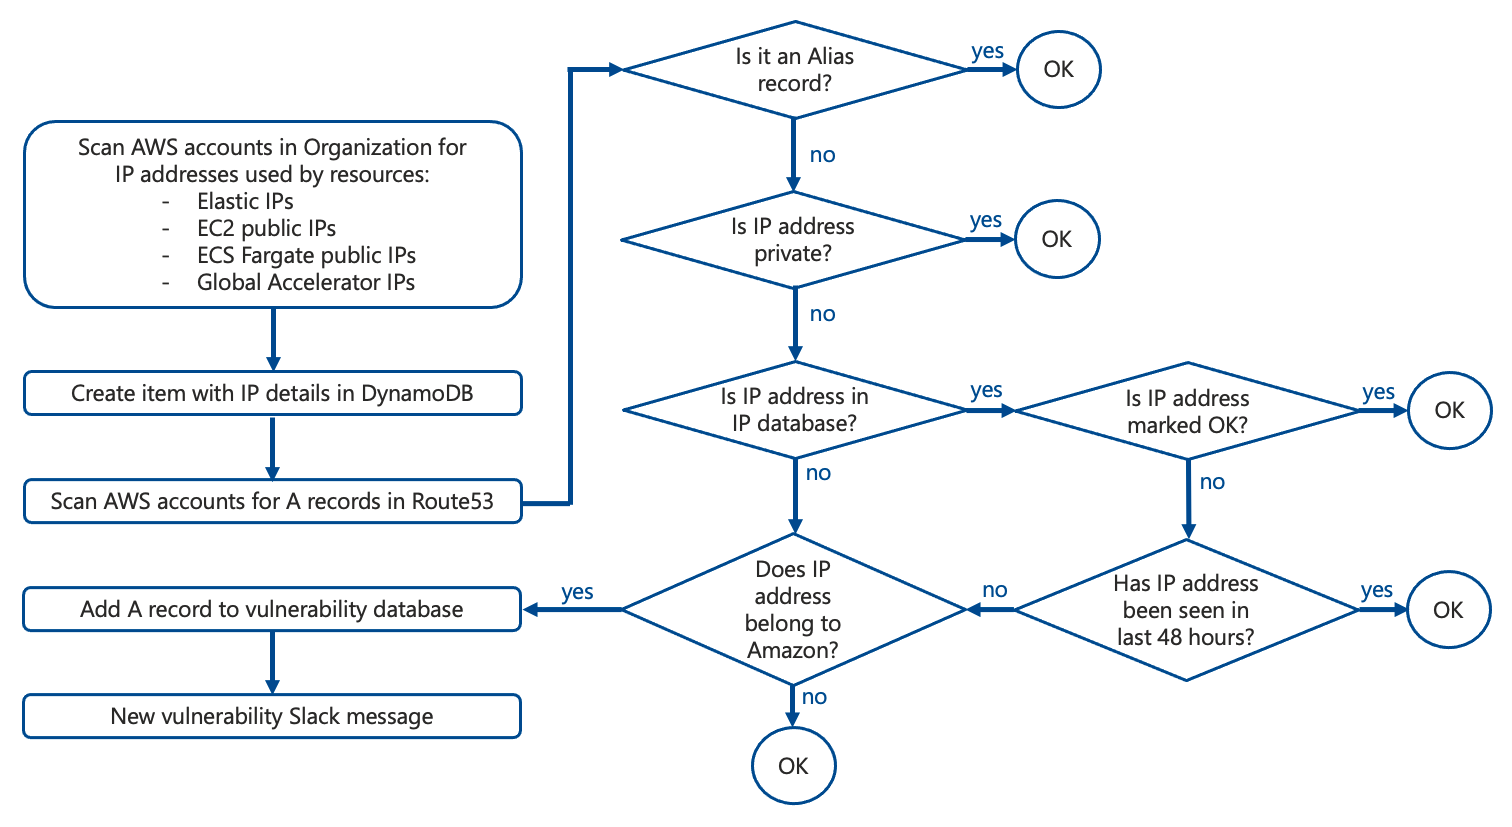
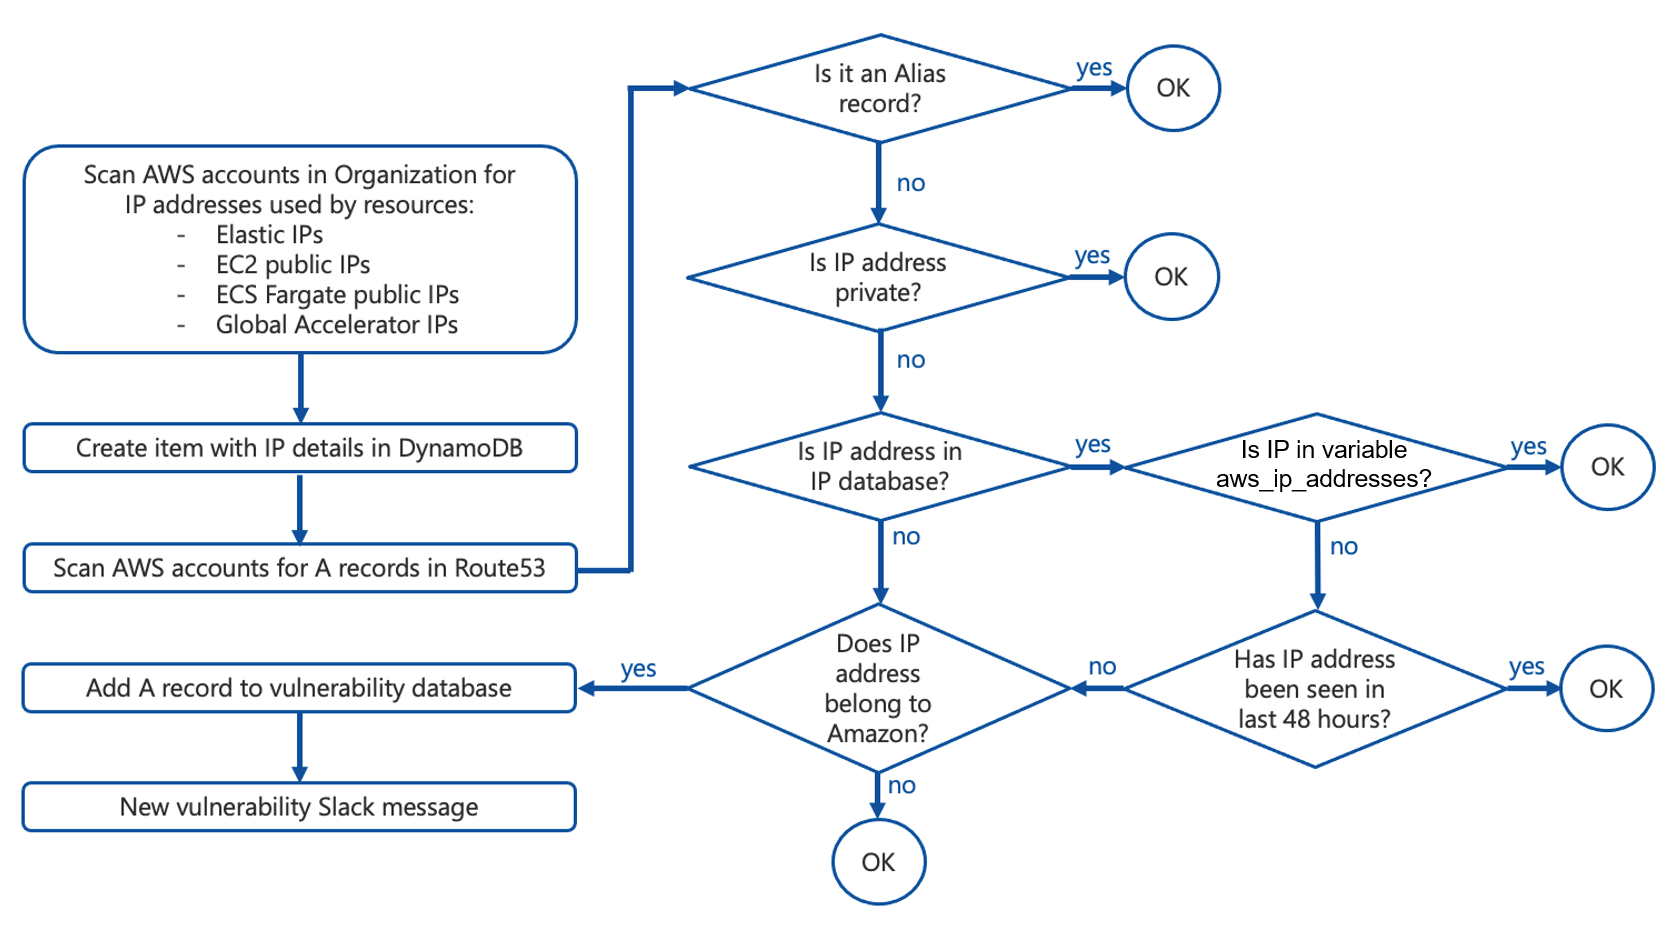
Authorise AWS IP addresses outside Organization using Terraform variable (#362)
* for A Record checks, Authorise AWS IP addresses outside Organization using new Terraform variable aws_ip_addressses
* replaces the previous method of manually creating an entry in the database, which still works but is now deprecated
* additional permissions in example IAM policies for CloudFormation Stack Set deployment

diff --git a/unittests/utils/test_utils_ips.py b/unittests/utils/test_utils_ips.py
@@ -1,0 +1,49 @@
+from unittest.mock import patch
+
+from assertpy import assert_that
+
+from utils.utils_ips import is_ip_in_network
+from utils.utils_ips import is_ip_in_networks
+
+
+def test_is_ip_in_network():
+    ip = "192.168.1.10"
+    network = "192.168.1.0/24"
+
+    result = is_ip_in_network(ip, network)
+
+    assert_that(result).is_true()
+
+
+def test_is_ip_not_in_network():
+    ip = "192.168.2.10"
+    network = "192.168.1.0/24"
+
+    result = is_ip_in_network(ip, network)
+
+    assert_that(result).is_false()
+
+
+@patch("utils.utils_ips.networks", ["192.168.1.0/24", "10.0.0.0/8"])
+def test_is_ip_in_networks():
+    ip = "192.168.1.10"
+
+    result = is_ip_in_networks(ip)
+
+    assert_that(result).is_true()
+
+
+@patch("utils.utils_ips.networks", ["192.168.1.0/24", "10.0.0.0/8"])
+def test_is_ip_not_in_networks():
+    ip = "172.16.1.10"
+
+    result = is_ip_in_networks(ip)
+
+    assert_that(result).is_false()
+
+
+@patch("utils.utils_ips.networks", [])
+def test_is_ip_in_networks_no_networks():
+    ip = "192.168.1.10"
+    result = is_ip_in_networks(ip)
+    assert_that(result).is_false()

diff --git a/utils/utils_db_ips.py b/utils/utils_db_ips.py
@@ -3,6 +3,9 @@ import os
 
 import boto3
 
+from utils.utils_ips import is_ip_in_networks
+
+
 project = os.environ["PROJECT"]
 env_name = os.environ["ENVIRONMENT"]
 ip_base_table_name = "IPs"
@@ -90,18 +93,21 @@ def db_ip(ip, account, region, resource_type, cloud="AWS"):
 
 def db_check_ip(ip, max_age_hours):
     # checks database for IP address
-    # ignores if LastDateTime is older than specified number of hours
-    # doesn't check age of manually entered exceptions
 
     date_time = datetime.datetime.now()
+
+    # check if IP is in variable AWS_IP_ADDRESSES
+    if is_ip_in_networks(ip):
+        return True
+
     item = db_get_ip(ip)
 
     if item:
-
+        # check if IP address is marked as OK in database (deprecated)
         if "IP OK" in item["Account"]["S"]:
-
             return True
 
+        # ignore if LastDateTime is older than specified number of hours
         last_date_time_string = item["LastDateTime"]["S"]
         last_date_time = datetime.datetime.strptime(last_date_time_string, "%Y-%m-%d %H:%M:%S")
 

diff --git a/utils/utils_ips.py b/utils/utils_ips.py
@@ -1,0 +1,21 @@
+import ipaddress
+import os
+
+# environment variable AWS_IP_ADDRESSES can be empty, or with format: "'3.5.140.1', '3.5.140.128/30'"
+networks_str = os.environ.get("AWS_IP_ADDRESSES")
+networks = networks_str.split(",") if networks_str else []
+
+
+def is_ip_in_network(ip, network):
+    # checks if the given IP address is in the specified network
+    ip_obj = ipaddress.ip_address(ip)
+    network_obj = ipaddress.ip_network(network, strict=False)
+    return ip_obj in network_obj
+
+
+def is_ip_in_networks(ip):
+    # checks if the given IP address is in any of the specified networks
+    for network in networks:
+        if is_ip_in_network(ip, network):
+            return True
+    return False

diff --git a/utils/utils_bugcrowd.py b/utils/utils_bugcrowd.py
@@ -4,9 +4,9 @@ import requests
 
 from utils.utils_globalvars import requests_timeout
 
-bugcrowd_api_key = os.environ["BUGCROWD_API_KEY"]
-bugcrowd_email = os.environ["BUGCROWD_EMAIL"]
-bugcrowd_state = os.environ["BUGCROWD_STATE"]
+bugcrowd_api_key = os.environ.get("BUGCROWD_API_KEY") or ""
+bugcrowd_email = os.environ.get("BUGCROWD_EMAIL") or ""
+bugcrowd_state = os.environ.get("BUGCROWD_STATE") or ""
 bugcrowd_base_url = "https://api.bugcrowd.com"
 project = os.environ["PROJECT"]
 

diff --git a/utils/utils_aws.py b/utils/utils_aws.py
@@ -53,7 +53,7 @@ def create_session(credentials, region_override):
 def assume_role(account, region_override="None"):
     project = os.environ["PROJECT"]
     security_audit_role_name = os.environ["SECURITY_AUDIT_ROLE_NAME"]
-    external_id = os.environ["EXTERNAL_ID"]
+    external_id = os.environ.get("EXTERNAL_ID") or ""
 
     try:
         assumed_role_object = generate_temporary_credentials(account, security_audit_role_name, external_id, project)

diff --git a/docs/development.md b/docs/development.md
@@ -31,7 +31,6 @@ export CLOUDFLARE_API_KEY="xxxxxxxxxxxxxxxxxx"
 export CLOUDFLARE_EMAIL="me@example.com"
 export ORG_PRIMARY_ACCOUNT="123456789012"
 export SECURITY_AUDIT_ROLE_NAME="domain-protect-audit"
-export EXTERNAL_ID="xxxxxxxxxxxxxxxxxx"
 export PROJECT="domain-protect"
 export SNS_TOPIC_ARN="arn:aws:sns:eu-west-1:123456789012:domain-protect-dev"
 export ENVIRONMENT="dev"
@@ -49,4 +48,43 @@ export HACKERONE_API_TOKEN="xxxxxxxxxxxxxxxxxx"
 ```
 from lambda_code.cloudflare_scan.cloudflare_scan import lambda_handler
 lambda_handler({},{})
+```
+
+## testing Lambda functions locally (Windows)
+* create virtual environment
+```
+cd modules\terraform-aws-ca-lambda
+python -m venv .venv
+```
+* activate virtual environment
+```
+.venv/scripts/activate
+```
+* install dependencies
+```
+pip install -r requirements-dev.txt
+```
+* set environment variables for dev environment
+```
+$env:ALLOWED_REGIONS="['eu-west-1', 'us-east-1']"
+$env:AWS_IP_ADDRESSES="18.96.8.1"
+$env:AWS_DEFAULT_REGION="eu-west-1"
+$env:AWS_REGION="eu-west-1"
+$env:ORG_PRIMARY_ACCOUNT="123456789012"
+$env:SECURITY_AUDIT_ROLE_NAME="domain-protect-audit"
+$env:PROJECT="domain-protect"
+$env:SNS_TOPIC_ARN="arn:aws:sns:eu-west-1:123456789012:domain-protect-dev"
+$env:ENVIRONMENT="dev"
+$env:PRODUCTION_ENVIRONMENT="prd"
+$env:BUGCROWD="disabled"
+$env:HACKERONE="enabled"
+$env:HACKERONE_API_TOKEN="xxxxxxxxxxxxxxxxxx"
+$env:IP_TIME_LIMIT="48"
+```
+* copy and paste AWS PowerShell variables to PowerShell terminal
+* test Lambda function locally
+* enter `python`
+```
+from lambda_code.scan_ips.scan_ips import lambda_handler
+lambda_handler({"Id": "123456789012", "Name": "MyAWSAccount"},{})
 ```

diff --git a/docs/a-records.md b/docs/a-records.md
@@ -34,16 +34,18 @@ A records pointing to an IPv4 address can be vulnerable to subdomain takeover:
 
 ![Alt text](assets/images/ip-database.png?raw=true "IP Address database")
 
-## Record IP address as OK
-The A record check may create false positive alerts.
+## Authorising AWS IP addresses outside AWS Organization
+The A record check may create false positive alerts where the IP address is within AWS, but outside the AWS Organization scanned by Domain Protect.
 
-If A record points to legitimate IP address, e.g. in a service provider's AWS account:
-* manually create item in IP address DynamoDB database
-* enter IP address known to be authorised
-* create Account field with text starting `IP OK`
-* item must be manually removed when resource is decommissioned
+For example, the A record may point to a public IP address in a service provider's AWS account.
 
-![Alt text](assets/images/ip-exception.png?raw=true "IP Address exception")
+Approved AWS IP addresses outside the AWS Organization can be pre-authorised by setting the Terraform variable:
+
+```
+aws_ip_addresses = ["3.5.140.1", "15.230.15.30"]
+```
+
+If there is a network of AWS IP addresses which you wish to authorise, rather than a single address, add to the list in CIDR notation, e.g. 52.93.178.144/30.
 
 ## Disabling A record feature
 * set Terraform variable in your CI/CD pipeline or tfvars file:
